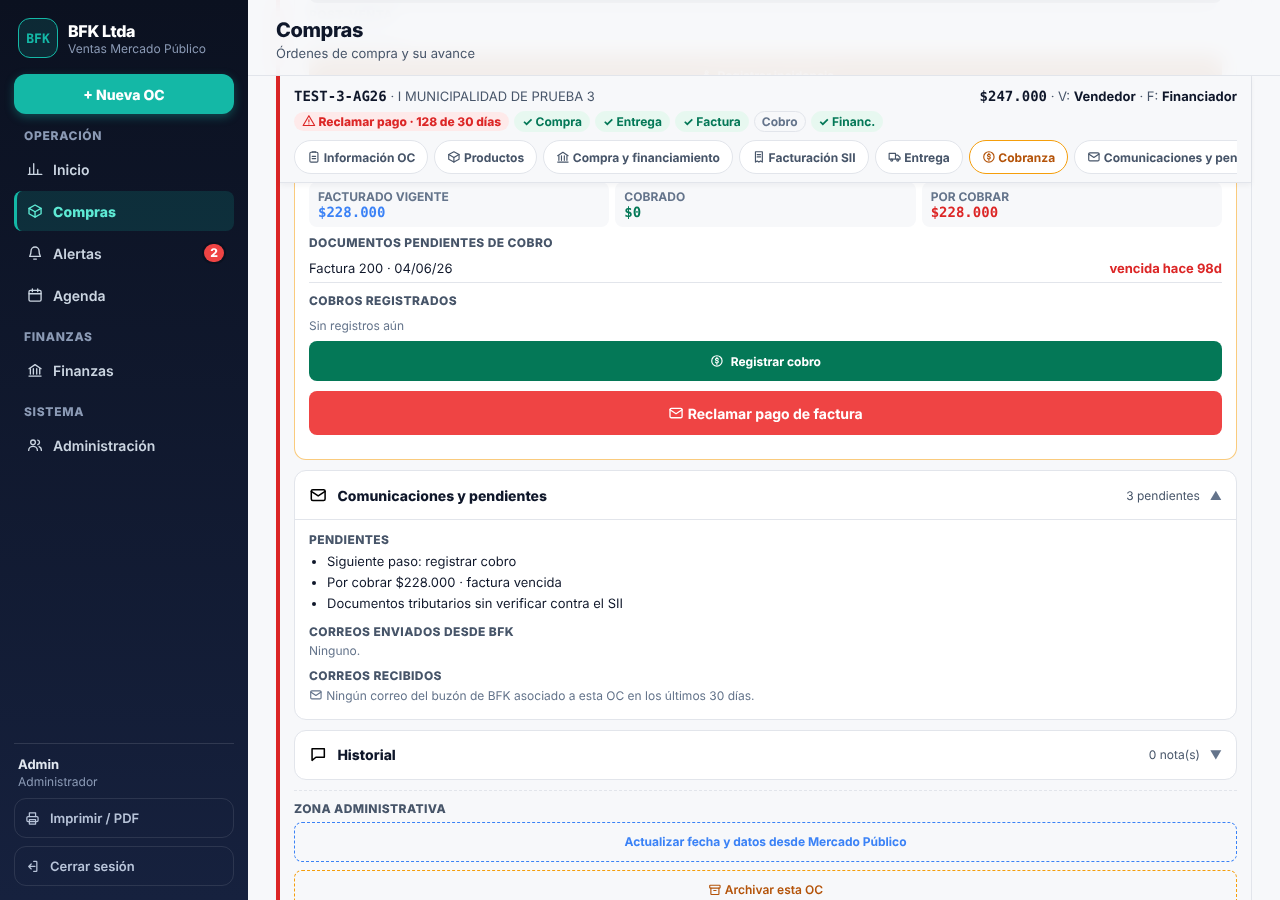
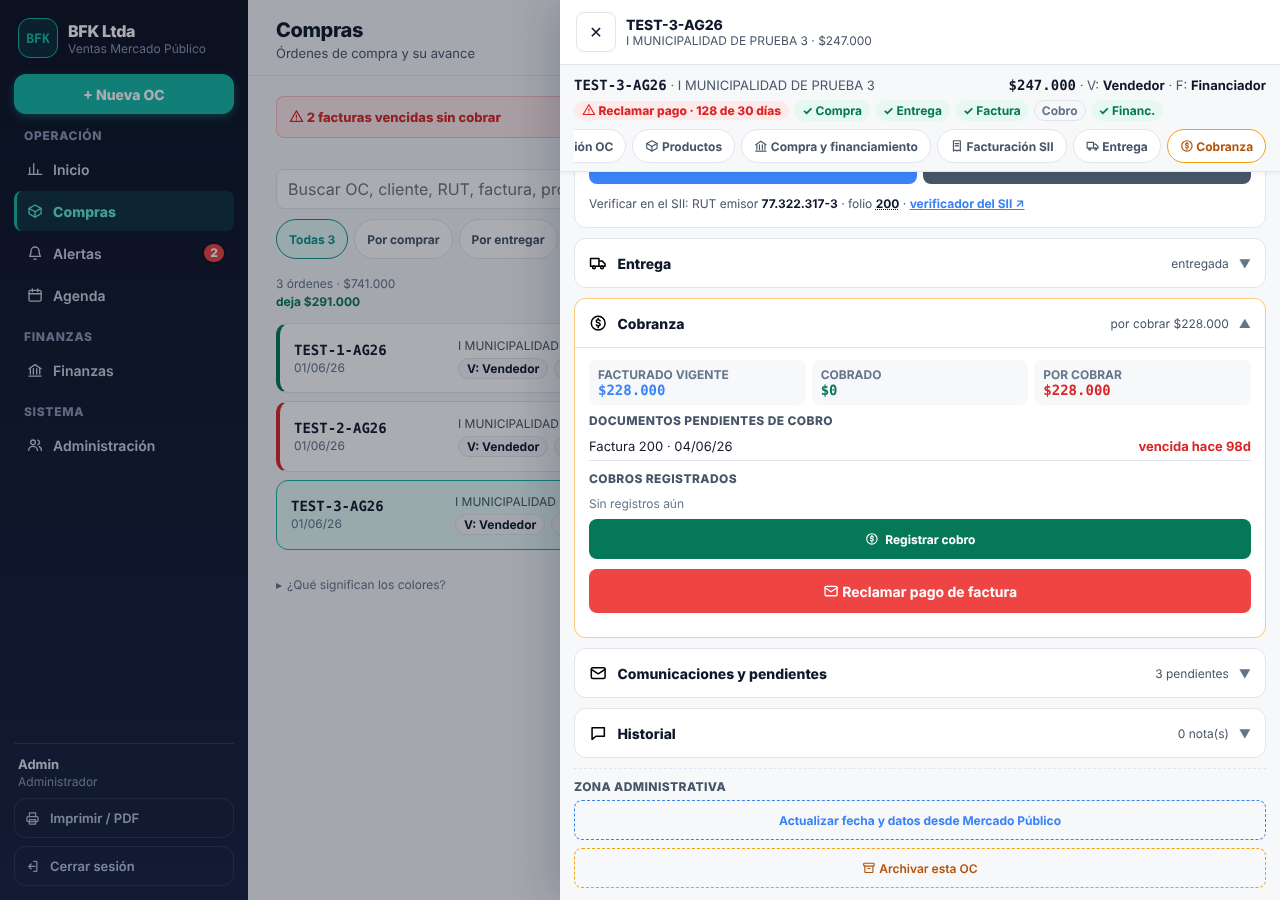
Rediseño fase 6: Banco, Alertas, Correos, Agenda y Administración
- Alertas: pestañas Alertas de OC · Correos · Para ti (con contadores); niveles en una fila.
- Agenda: avisos de atraso en una línea con acceso a Alertas.
- Administración: pestañas reales (Usuarios · Datos y respaldo · Mercado Público · OCs archivadas ·
  Correcciones) en lugar de un índice de anclas.
- Ficha de OC: en escritorio la barra lateral sigue disponible con la ficha abierta; tocar la
  pantalla actual vuelve a su vista inicial (cierra la ficha).
- Pruebas: correos en su pestaña, funciones de Administración por pestaña.
Sin cambios en cálculos, SQL, API ni reglas de negocio.

Claude-Session: https://claude.ai/code/session_011et5b7WK3bKxoP7aj4Zfdz

diff --git a/src/App.jsx b/src/App.jsx
@@ -63,6 +63,7 @@ export default function App() {
   const revisionAutoHecha=useRef(false);
   const [accion,setAccion]=useState(null); const [abonoFinId,setAbonoFinId]=useState(null); const [busquedaCompras,setBusquedaCompras]=useState(null);
   const [menuMas,setMenuMas]=useState(false);
+  const [reinicio,setReinicio]=useState(0);
   const [toast,setToast]=useState(null);
   const [exportando,setExportando]=useState(false);
   const [ocs,setOcs]=useState([]); const [ocsArchivadas,setOcsArchivadas]=useState([]); const [financiadores,setFinanciadores]=useState([]); const [vendedores,setVendedores]=useState([]);
@@ -134,6 +135,7 @@ export default function App() {
   const irA=(t)=>{
     let destino=t;
     if(t==="finanzas"&&pantallaDe(tab)?.hub!=="finanzas") destino=ultimaFinanzas.current||"finanzas";
+    if(destino===tab) setReinicio(n=>n+1); // tocar la pantalla actual vuelve a su vista inicial (p. ej. cierra la ficha abierta)
     setTab(destino); setFiltroCompras(null); setOcFoco(null); setVolverA(null); setMenuMas(false);
   };
   useEffect(()=>{
@@ -1686,7 +1688,7 @@ export default function App() {
     <ModoTodoContext.Provider value={todo}>
       {pestanasHub&&!todo&&<Pestanas etiqueta={HUBS[pantalla.hub].label} variante="subrayado" activa={tab} onCambiar={irA} items={pestanasHub.map(p=>({key:p.key,label:p.label,attrs:{"data-nav":p.key,"aria-current":tab===p.key?"page":undefined}}))} />}
       {(tab==="panel"||todo)&&hoja("panel",<PanelDashboard onQuitarAlertaCartola={handleQuitarAlertaCartola} onBuscarCompras={(q)=>{setBusquedaCompras(q);setFiltroCompras(null);setOcFoco(null);setVolverA(null);setTab("compras");}} ocs={ocs} financiadores={financiadores} gastos={gastos} pagosVendedor={pagosVendedor} ivaMensual={ivaMensual} vendedores={vendedores} pagoFinSueltos={pagoFinSueltos} aportes={aportes} ajustes={ajustesSaldo} categorias={categoriasGasto} perfil={perfil} onExportarTodo={handleExportarTodo} exportando={exportando} onNavigate={(t,filtro,ocId)=>{setFiltroCompras(filtro||null);setOcFoco(ocId||null);setVolverA(null);setTab(t);}} onAccion={(k)=>setAccion(k)} onSincronizar={completarTodasDesdeMP} onCorregirFechas={corregirFechasTodas} sincronizando={sincronizando} porAceptar={porAceptar.filter(a=>!buscarDuplicadoOC(a.numero_oc))} onActualizarPorAceptar={revisarPorAceptar} verificandoPorAceptar={verificandoPorAceptar} aceptadasSinCargar={aceptadasSinCargar.filter(a=>!buscarDuplicadoOC(a.numero_oc))} onCargarOC={(numero)=>{setCodigoOcRapida(numero);setAccion("compra_oc");}} onCargarTodasAceptadas={handleCargarTodasAceptadas} cargandoAceptadas={cargandoAceptadas} onActualizarAceptadas={revisarAceptadasSinCargar} verificandoAceptadas={verificandoAceptadas} canceladasEnMP={canceladasEnMP.filter(c=>ocs.some(o=>o.id===c.id))} onArchivarCancelada={(id)=>handleArchivarOC(id,"Cancelada en Mercado Público")} onActualizarCanceladas={revisarCanceladasEnMP} verificandoCanceladas={verificandoCanceladas} onValidarTodo={validarTodoContraMP} validandoTodo={validandoTodo} usoMP={usoMP} actMP={actMP} esCodigoMP={esCodigoMP} ultimaCartola={ultimaCartola} saldoBanco={saldoBanco} bancoMensual={bancoMensual} onEditarSaldo={()=>setAccion("saldo_banco")} />)}
-      {(tab==="compras"||todo)&&hoja("compras",<>{!todo&&volverA==="notif"&&<button onClick={()=>{setVolverA(null);setTab("notif");}} style={{width:"100%",textAlign:"left",background:C.tealLight,color:C.tealDark,border:"none",borderRadius:12,padding:"10px 12px",marginBottom:10,fontWeight:800,fontSize:13,minHeight:44,cursor:"pointer"}}>← Volver a Alertas</button>}<PanelCompras pagosVendedor={pagosVendedor} onAsignarVendedor={handleAsignarVendedor} onAsignarFinanciador={handleAsignarFinanciador} correosBfk={correosBfk} onMarcarCorreo={handleMarcarCorreo} difsHistoricas={difsHistoricas} onCambiarFinanciamiento={handleCambiarFinanciamiento} busquedaInicial={busquedaCompras} ocs={ocs} perfiles={perfiles} filtroInicial={filtroCompras} ocFoco={ocFoco} onFocoUsado={()=>setOcFoco(null)} contactos={contactos} onEnviarReclamo={handleEnviarReclamo} onCorreoOC={handleCorreoOC} onRegistrarRespuestaReclamo={handleRegistrarRespuestaReclamo} onGuardarContacto={handleGuardarContacto} onGuardarDatosOC={handleGuardarDatosOC} onEditarEvento={handleEditarEvento} financiadores={financiadores} onConfirmarEntrega={handleEntrega} onEmitirFactura={handleFactura} onPagoCliente={handlePagoCliente} onPagoFinanciamiento={handlePagoFin} entidadesCatalogo={entidadesCatalogo} onGuardarLink={handleGuardarLink} onEliminarLink={handleEliminarLink} onEditarLink={handleEditarLink} onRepartirInversion={handleRepartirInversion} buscarDuplicadoOC={buscarDuplicadoOC} onSincronizarFecha={handleSincronizarFecha} perfil={perfil} historialCambios={historialCambios} onAgregarComentario={handleAgregarComentario} onEliminarComentario={handleEliminarComentario} onArchivarOC={handleArchivarOC} onEliminarFactura={handleEliminarFactura} onRegistrarNC={handleNotaCredito} onEliminarEvento={handleEliminarEvento} vendedores={vendedores} onIngresarCompra={handleIngresarCompra} onAsignarResponsable={handleAsignarResponsable} onGuardarPostventa={handleGuardarPostventa} /></>)}
+      {(tab==="compras"||todo)&&hoja("compras",<>{!todo&&volverA==="notif"&&<button onClick={()=>{setVolverA(null);setTab("notif");}} style={{width:"100%",textAlign:"left",background:C.tealLight,color:C.tealDark,border:"none",borderRadius:12,padding:"10px 12px",marginBottom:10,fontWeight:800,fontSize:13,minHeight:44,cursor:"pointer"}}>← Volver a Alertas</button>}<PanelCompras key={"compras-"+reinicio} pagosVendedor={pagosVendedor} onAsignarVendedor={handleAsignarVendedor} onAsignarFinanciador={handleAsignarFinanciador} correosBfk={correosBfk} onMarcarCorreo={handleMarcarCorreo} difsHistoricas={difsHistoricas} onCambiarFinanciamiento={handleCambiarFinanciamiento} busquedaInicial={busquedaCompras} ocs={ocs} perfiles={perfiles} filtroInicial={filtroCompras} ocFoco={ocFoco} onFocoUsado={()=>setOcFoco(null)} contactos={contactos} onEnviarReclamo={handleEnviarReclamo} onCorreoOC={handleCorreoOC} onRegistrarRespuestaReclamo={handleRegistrarRespuestaReclamo} onGuardarContacto={handleGuardarContacto} onGuardarDatosOC={handleGuardarDatosOC} onEditarEvento={handleEditarEvento} financiadores={financiadores} onConfirmarEntrega={handleEntrega} onEmitirFactura={handleFactura} onPagoCliente={handlePagoCliente} onPagoFinanciamiento={handlePagoFin} entidadesCatalogo={entidadesCatalogo} onGuardarLink={handleGuardarLink} onEliminarLink={handleEliminarLink} onEditarLink={handleEditarLink} onRepartirInversion={handleRepartirInversion} buscarDuplicadoOC={buscarDuplicadoOC} onSincronizarFecha={handleSincronizarFecha} perfil={perfil} historialCambios={historialCambios} onAgregarComentario={handleAgregarComentario} onEliminarComentario={handleEliminarComentario} onArchivarOC={handleArchivarOC} onEliminarFactura={handleEliminarFactura} onRegistrarNC={handleNotaCredito} onEliminarEvento={handleEliminarEvento} vendedores={vendedores} onIngresarCompra={handleIngresarCompra} onAsignarResponsable={handleAsignarResponsable} onGuardarPostventa={handleGuardarPostventa} /></>)}
       {(tab==="notif"||todo)&&hoja("notif",<PanelNotificaciones correos={correosBfk} onMarcarCorreo={handleMarcarCorreo} notificaciones={notificaciones} ocs={ocs} onMarcarLeidas={handleMarcarNotificacionesLeidas} filtroAlertas={filtroAlertas} onFiltroAlertas={setFiltroAlertas} onNavigate={(t,filtro,ocId)=>{setFiltroCompras(filtro||null);setOcFoco(ocId||null);setVolverA(ocId?"notif":null);setTab(t);}} />)}
       {(tab==="agenda"||todo)&&hoja("agenda",<PanelCalendario ocs={ocs} onMarcarFecha={handleMarcarFecha} onVerAlertas={(f)=>{setFiltroCompras(null);setOcFoco(null);setVolverA(null);setFiltroAlertas({nivel:(f&&f.nivel)||"todas",etapa:(f&&f.etapa)||null});setTab("notif");}} />)}
       {(tab==="financiamiento"||todo)&&hoja("financiamiento",<PanelFinanciamiento difsHistoricas={difsHistoricas} financiadores={financiadores} ocs={ocs} ajustes={ajustesSaldo} perfiles={perfiles} onAjustar={handleAjusteSaldo} aportes={aportes} onGuardarAporte={handleGuardarAporte} onEliminarAporte={perfil?.rol==="admin"?handleEliminarAporte:undefined} onAbonar={(finId)=>{setAbonoFinId(typeof finId==="string"||typeof finId==="number"?finId:null);setAccion("abono_fin");}} pagoFinSueltos={pagoFinSueltos} />)}

diff --git a/src/components/ui/Multiusuario.jsx b/src/components/ui/Multiusuario.jsx
@@ -4,6 +4,8 @@ import { useState, useEffect } from "react";
 import { del } from "../../lib/supabase";
 import { C, MONO, SANS, fmt } from "../../lib/theme";
 import { Leyenda } from "./Basicos";
+import { Pestanas, PanelPestana } from "./Sistema";
+import { esPendiente } from "../../lib/correosBfk";
 import { Ic, I } from "./Iconos";
 
 // Estado del bloqueo cooperativo de la OC abierta. El propietario no ve aviso; los demás ven solo lectura.
@@ -262,6 +264,14 @@ export function calcularAlertas(ocs) {
 // nivel: todas | alto | medio | bajo · etapa (opcional): refina con el campo `filtro` que ya trae cada alerta
 // ("entrega" = entregas atrasadas, "cobro" = facturas vencidas), sin categorías nuevas.
 const ETAPA_ALERTA = { entrega: "entregas atrasadas", cobro: "facturas vencidas sin cobrar" };
+const LEYENDA_ALERTAS = [
+        {muestra:<Ic n="🔴"/>, texto:"Urgente: facturas pasadas de plazo o entregas atrasadas. Son las que cuestan plata."},
+        {muestra:<Ic n="🟡"/>, texto:"Atención: vencen dentro de 5 días, o llevan días entregadas sin facturar."},
+        {muestra:<Ic n="⏸"/>, texto:"Informativas: OCs sin avance hace más de dos semanas, o esperando Mercado Público."},
+        {muestra:<Ic n="⚠"/>, texto:"OC sin vendedor: OCs abiertas que no entran en ninguna comisión hasta asignarles un vendedor."},
+        {muestra:"›", texto:"Al tocar una alerta te lleva al listado filtrado por esa etapa."},
+      ];
+
 export function PanelNotificaciones({ notificaciones, ocs, onMarcarLeidas, onNavigate, filtroAlertas, onFiltroAlertas, correos, onMarcarCorreo }) {
   const [filtroLocal, setFiltroLocal] = useState({ nivel: "todas", etapa: null });
   const fa = filtroAlertas || filtroLocal;
@@ -280,10 +290,12 @@ export function PanelNotificaciones({ notificaciones, ocs, onMarcarLeidas, onNav
     bajo:  alertas.filter(a => a.nivel === "bajo").length,
   };
   const colorNivel = (n) => n === "alto" ? C.danger : n === "medio" ? C.warn : C.inkFaint;
+  const [pestana, setPestana] = useState("alertas");
+  const nCorreos = (correos || []).filter(esPendiente).length;
 
   const Chip = ({ id, label, n, color }) => (
     <button onClick={() => setFiltro(id)}
-      style={{fontSize:12,fontWeight:700,padding:"5px 10px",borderRadius:8,cursor:"pointer",
+      style={{fontSize:12,fontWeight:700,padding:"5px 10px",borderRadius:8,cursor:"pointer",flexShrink:0,whiteSpace:"nowrap",
         border:`1.5px solid ${filtro===id?color:C.border}`,
         background:filtro===id?C.paper:C.card, color:filtro===id?color:C.inkMuted}}>
       {label}{n !== undefined ? ` ${n}` : ""}
@@ -292,15 +304,20 @@ export function PanelNotificaciones({ notificaciones, ocs, onMarcarLeidas, onNav
 
   return (
     <div style={{fontFamily:SANS}}>
-      {correos && <CorreosPendientes correos={correos} ocs={ocs} onMarcar={onMarcarCorreo} onAbrirOC={(ocId) => onNavigate && onNavigate("compras", null, ocId)} />}
-      <div style={{marginBottom:12}}>
-        <div style={{fontWeight:800,fontSize:14,color:C.ink}}>Alertas</div>
-        <div style={{fontSize:12,color:C.inkFaint,marginTop:2}}>
-          {alertas.length === 0 ? "Todo al día" : `${alertas.length} cosa${alertas.length>1?"s":""} que revisar · toca para ir a la OC`}
-        </div>
+      <Pestanas etiqueta="Alertas y correos" activa={pestana} onCambiar={setPestana} items={[
+        { key: "alertas", label: "Alertas de OC", n: alertas.length || null, tono: conteo.alto ? "danger" : null },
+        ...(correos ? [{ key: "correos", label: "Correos", n: nCorreos || null, tono: nCorreos ? "warn" : null }] : []),
+        ...(noLeidas.length ? [{ key: "parati", label: "Para ti", n: noLeidas.length }] : []),
+      ]} />
+      {correos && <PanelPestana visible={pestana === "correos"} titulo="Correos de BFK">
+        <CorreosPendientes correos={correos} ocs={ocs} onMarcar={onMarcarCorreo} onAbrirOC={(ocId) => onNavigate && onNavigate("compras", null, ocId)} />
+      </PanelPestana>}
+      <PanelPestana visible={pestana === "alertas"} titulo="Alertas de OC">
+      <div style={{fontSize:12,color:C.inkFaint,margin:"-6px 2px 10px"}}>
+        {alertas.length === 0 ? "Todo al día" : `${alertas.length} cosa${alertas.length>1?"s":""} que revisar · toca para ir a la OC`}
       </div>
 
-      <div style={{display:"flex",gap:6,flexWrap:"wrap",marginBottom:12}}>
+      <div style={{display:"flex",gap:6,flexWrap:"nowrap",overflowX:"auto",scrollbarWidth:"none",marginBottom:12}}>
         <Chip id="todas" label="Todas" n={alertas.length} color={C.teal} />
         <Chip id="alto"  label={<I t={"🔴 Urgente"}/>}   n={conteo.alto}  color={C.danger} />
         <Chip id="medio" label={<I t={"🟡 Atención"}/>}  n={conteo.medio} color={C.warn} />
@@ -342,8 +359,11 @@ export function PanelNotificaciones({ notificaciones, ocs, onMarcarLeidas, onNav
         </button>
       ))}
 
+      <Leyenda titulo="¿Cómo se ordenan las alertas?" items={LEYENDA_ALERTAS} />
+      </PanelPestana>
       {noLeidas.length > 0 && (
-        <div style={{marginTop:18}}>
+        <PanelPestana visible={pestana === "parati"} titulo="Para ti">
+        <div>
           <div style={{display:"flex",justifyContent:"space-between",alignItems:"center",marginBottom:8}}>
             <span style={{fontSize:12,fontWeight:800,color:C.inkMuted,textTransform:"uppercase",letterSpacing:0.4}}>
               Para ti ({noLeidas.length})
@@ -359,15 +379,8 @@ export function PanelNotificaciones({ notificaciones, ocs, onMarcarLeidas, onNav
             </div>
           ))}
         </div>
+        </PanelPestana>
       )}
-
-      <Leyenda titulo="¿Cómo se ordenan las alertas?" items={[
-        {muestra:<Ic n="🔴"/>, texto:"Urgente: facturas pasadas de plazo o entregas atrasadas. Son las que cuestan plata."},
-        {muestra:<Ic n="🟡"/>, texto:"Atención: vencen dentro de 5 días, o llevan días entregadas sin facturar."},
-        {muestra:<Ic n="⏸"/>, texto:"Informativas: OCs sin avance hace más de dos semanas, o esperando Mercado Público."},
-        {muestra:<Ic n="⚠"/>, texto:"OC sin vendedor: OCs abiertas que no entran en ninguna comisión hasta asignarles un vendedor."},
-        {muestra:"›", texto:"Al tocar una alerta te lleva al listado filtrado por esa etapa."},
-      ]} />
     </div>
   );
 }

diff --git a/src/components/panels/PanelUsuarios.jsx b/src/components/panels/PanelUsuarios.jsx
@@ -2,11 +2,12 @@ import { useState, useMemo } from "react";
 import { PanelDatos } from "./PanelDatos";
 import { C, btnP, fmt, iStyle } from "../../lib/theme";
 import { Ic } from "../ui/Iconos";
-import { Seccion, Tarjeta, Badge, BotonAdmin, IndiceSecciones } from "../ui/Sistema";
+import { Seccion, Tarjeta, Badge, BotonAdmin, Pestanas, PanelPestana } from "../ui/Sistema";
 import { ImportarEntidades } from "../forms/ImportarEntidades";
 
 export function PanelUsuarios({ perfiles, ocs, ocsArchivadas, onRestaurarOC, onChangeRol, session, showToast, entidadesCatalogo, onEntidadesImportadas, usoMP, sincronizando, validandoTodo, exportando, onCorregirFechas, onValidarTodo, onExportarTodo, difsHistoricas }) {
   const [verDifs,setVerDifs]=useState(false);
+  const [pestana,setPestana]=useState("usuarios");
   const [showImport,setShowImport]=useState(false);
   const [filtroArch,setFiltroArch]=useState("");
   const [archAbierta,setArchAbierta]=useState(null);
@@ -34,13 +35,14 @@ export function PanelUsuarios({ perfiles, ocs, ocsArchivadas, onRestaurarOC, onC
 
   return (
     <div>
-      <IndiceSecciones items={[
-        {id:"adm-usuarios",label:"Usuarios"},
-        {id:"adm-datos",label:"Datos y respaldo"},
-        {id:"adm-mp",label:"Mercado Público"},
-        {id:"adm-archivadas",label:"OCs archivadas",n:(ocsArchivadas||[]).length},
-        {id:"adm-correcciones",label:"Correcciones pendientes",n:(difsHistoricas||[]).length},
+      <Pestanas etiqueta="Administración" activa={pestana} onCambiar={setPestana} items={[
+        {key:"usuarios",label:"Usuarios"},
+        {key:"datos",label:"Datos y respaldo"},
+        {key:"mp",label:"Mercado Público"},
+        {key:"archivadas",label:"OCs archivadas",n:(ocsArchivadas||[]).length||null},
+        {key:"correcciones",label:"Correcciones",n:(difsHistoricas||[]).length||null,tono:(difsHistoricas||[]).length?"warn":null},
       ]} />
+      <PanelPestana visible={pestana==="usuarios"} titulo="Usuarios y permisos">
       {/* ── 1. Usuarios y permisos ── */}
       <Seccion id="adm-usuarios" titulo="Usuarios y permisos">
       {perfiles.map(p=>{
@@ -64,7 +66,9 @@ export function PanelUsuarios({ perfiles, ocs, ocsArchivadas, onRestaurarOC, onC
         );
       })}
       </Seccion>
+      </PanelPestana>
 
+      <PanelPestana visible={pestana==="datos"} titulo="Datos y respaldo">
       {/* ── 2. Datos y respaldo ── */}
       <Seccion id="adm-datos" titulo="Datos y respaldo" nota="Acciones administrativas: tienen más alcance que el trabajo diario.">
         <Tarjeta>
@@ -87,7 +91,9 @@ export function PanelUsuarios({ perfiles, ocs, ocsArchivadas, onRestaurarOC, onC
           )}
         </Tarjeta>
       </Seccion>
+      </PanelPestana>
 
+      <PanelPestana visible={pestana==="mp"} titulo="Mercado Público">
       {/* ── 3. Mercado Público ── */}
       <Seccion id="adm-mp" titulo="Mercado Público" nota="Mantenimiento masivo. Consulta muchas órdenes a la vez; úsalo solo cuando haga falta.">
         <Tarjeta>
@@ -111,7 +117,9 @@ export function PanelUsuarios({ perfiles, ocs, ocsArchivadas, onRestaurarOC, onC
           </div>
         </Tarjeta>
       </Seccion>
+      </PanelPestana>
 
+      <PanelPestana visible={pestana==="correcciones"} titulo="Correcciones históricas pendientes">
       {/* ── Correcciones históricas pendientes (Fase 4B): solo lectura ── */}
       <Seccion id="adm-correcciones" titulo="Correcciones históricas pendientes" nota="Diferencias encontradas al pasar a totales calculados por la base (Fase 4B). Se conservan los valores guardados hasta aprobar cada corrección; mientras tanto, las operaciones del dominio afectado quedan bloqueadas en esa OC.">
         <Tarjeta>
@@ -142,7 +150,9 @@ export function PanelUsuarios({ perfiles, ocs, ocsArchivadas, onRestaurarOC, onC
           })()}
         </Tarjeta>
       </Seccion>
+      </PanelPestana>
 
+      <PanelPestana visible={pestana==="archivadas"} titulo="OCs archivadas">
       {/* ── 4. OCs archivadas ── */}
       <Seccion id="adm-archivadas" titulo="OCs archivadas" nota="Ocultas de la operación diaria, con todos sus datos intactos. Se pueden consultar y restaurar.">
         <Tarjeta>
@@ -180,6 +190,7 @@ export function PanelUsuarios({ perfiles, ocs, ocsArchivadas, onRestaurarOC, onC
           })}
         </Tarjeta>
       </Seccion>
+      </PanelPestana>
     </div>
   );
 }

diff --git a/src/components/panels/PanelCalendario.jsx b/src/components/panels/PanelCalendario.jsx
@@ -8,13 +8,14 @@ import { entregaAtrasada, esVenta, estadoOperativo, estaEntregada, facturaPorCob
 
 // Resumen compacto de atrasos: una sola tarjeta con acceso a Alertas. No lista OC individuales.
 function ResumenAtraso({ titulo, monto, color, fondo, onVerAlertas }) {
+  // Aviso compacto de una línea (el detalle está en Alertas)
   return (
-    <div style={{background:fondo,border:`1px solid ${color}44`,borderRadius:12,marginBottom:8,display:"flex",alignItems:"center",gap:8,padding:"6px 6px 6px 12px",minHeight:52}}>
-      <span style={{flex:1,minWidth:0,display:"flex",alignItems:"flex-start",gap:6,color,fontWeight:800,fontSize:13,lineHeight:1.3}}>
-        <span style={{paddingTop:1}}><Ic n="⚠"/></span>
-        <span>{titulo}{monto>0&&<span style={{display:"block",fontFamily:MONO,fontSize:16,marginTop:1}}>{fmt.money(monto)}</span>}</span>
+    <div data-resumen-atraso style={{background:fondo,border:`1px solid ${color}33`,borderRadius:8,marginBottom:8,display:"flex",alignItems:"center",gap:8,padding:"4px 4px 4px 12px",minHeight:40}}>
+      <span style={{flex:1,minWidth:0,display:"flex",alignItems:"center",gap:6,color,fontWeight:700,fontSize:13,lineHeight:1.3}}>
+        <Ic n="⚠"/>
+        <span>{titulo}{monto>0&&<span style={{fontFamily:MONO,fontWeight:800}}> · {fmt.money(monto)}</span>}</span>
       </span>
-      {onVerAlertas&&<button onClick={onVerAlertas} style={{background:"none",border:"none",cursor:"pointer",color,fontWeight:800,fontSize:13,minHeight:44,padding:"0 8px",whiteSpace:"nowrap"}}>Ver alertas →</button>}
+      {onVerAlertas&&<button onClick={onVerAlertas} style={{background:"none",border:"none",cursor:"pointer",color,fontWeight:800,fontSize:12,minHeight:36,padding:"0 8px",whiteSpace:"nowrap",textDecoration:"underline"}}>Ver alertas</button>}
     </div>
   );
 }

diff --git a/src/components/ui/Sistema.jsx b/src/components/ui/Sistema.jsx
@@ -4,6 +4,7 @@ import { createContext, useContext, useEffect, useId, useRef, useState } from "r
 import { C, MONO, R, S, T, TOUCH, cardStyle, sombra } from "../../lib/theme";
 import { Ic } from "./Iconos";
 import { useCerrarConEscape } from "./Basicos";
+import { ANCHO_LATERAL } from "./Navegacion"; // en escritorio la barra lateral sigue disponible con la ficha abierta
 
 // ── Modo "todas las pantallas" (imprimir / PDF): abre desplegables y muestra todas las pestañas ──
 export const ModoTodoContext = createContext(false);
@@ -244,7 +245,7 @@ export function HojaLateral({ abierta, onCerrar, titulo, subtitulo, derecha, chi
   }, [abierta]);
   if (!abierta) return null;
   return (
-    <div data-hoja-lateral={dato} style={{ position: "fixed", inset: 0, zIndex: 60, display: "flex", justifyContent: "flex-end" }}>
+    <div data-hoja-lateral={dato} style={{ position: "fixed", top: 0, right: 0, bottom: 0, left: escritorio ? ANCHO_LATERAL : 0, zIndex: 60, display: "flex", justifyContent: "flex-end" }}>
       {escritorio && <div data-noprint onClick={onCerrar} style={{ position: "absolute", inset: 0, background: "rgba(11,17,32,0.35)" }} />}
       <div role="dialog" aria-modal="true" aria-label={typeof titulo === "string" ? titulo : "Detalle"} className="bfk-hoja"
         style={{ position: "relative", width: escritorio ? `min(${ancho}px, 92vw)` : "100%", height: "100%", background: C.paper, boxShadow: escritorio ? sombra.panel : "none", display: "flex", flexDirection: "column" }}>
